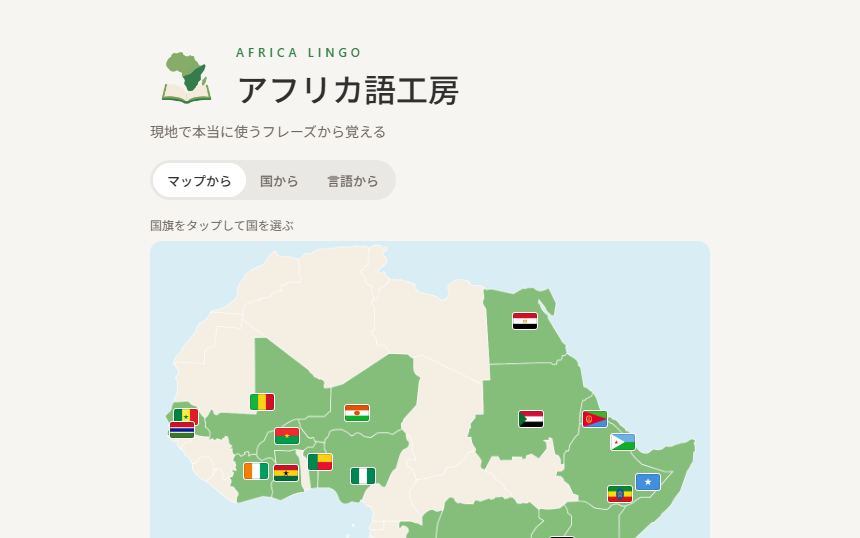
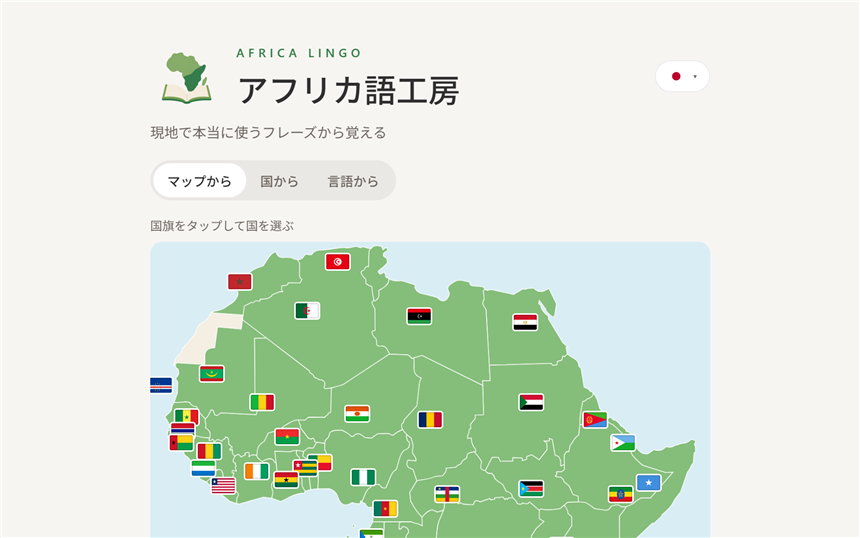
ポータル: アフリカ語工房の掲載文を26言語54カ国・3言語UIに更新+サムネ撮り直し(v4)

diff --git a/portal/index.html b/portal/index.html
@@ -1184,7 +1184,7 @@ button:focus-visible {
           </a>
 
           <a class="product reveal" href="https://africa-lingo.vercel.app" target="_blank" rel="noopener" aria-label="アフリカ語工房を新規タブで開く">
-            <img class="work-thumb" src="assets/app-africa.png?v=3" alt="アフリカ語工房のホーム画面" loading="lazy" width="860" height="538">
+            <img class="work-thumb" src="assets/app-africa.png?v=4" alt="アフリカ語工房のホーム画面" loading="lazy" width="860" height="538">
             <div class="top">
               <span class="mono logo" aria-hidden="true"><img src="assets/africa-lingo-mark.png?v=3" alt="" width="46" height="46" loading="lazy"></span>
               <div class="head">
@@ -1193,7 +1193,7 @@ button:focus-visible {
               </div>
               <span class="status live">Live</span>
             </div>
-            <p data-en="Learn real-life phrases from 20 African languages across 32 countries &mdash; about 1,900 phrases with kana readings. Pick by country, map or language, then master them with flip cards and quizzes.">アフリカ20言語・32カ国、約1,900の現地で本当に使うフレーズをカナ読み付きで学ぶ。国・マップ・言語の3つの入り口から選び、カードめくりと4択クイズで身につける。</p>
+            <p data-en="Learn real-life phrases from 26 African languages across all 54 countries &mdash; about 2,500 phrases, with the app itself in Japanese, English or French. Pick by country, map or language, then master them with flip cards and quizzes.">アフリカ26言語・全54カ国、約2,500の現地で本当に使うフレーズを学ぶ。UIは日本語・英語・フランス語の3言語対応。国・マップ・言語の3つの入り口から選び、カードめくりと4択クイズで身につける。</p>
             <div class="meta">
               <span data-en="Languages">語学</span>
               <span data-en="Africa">アフリカ</span>
